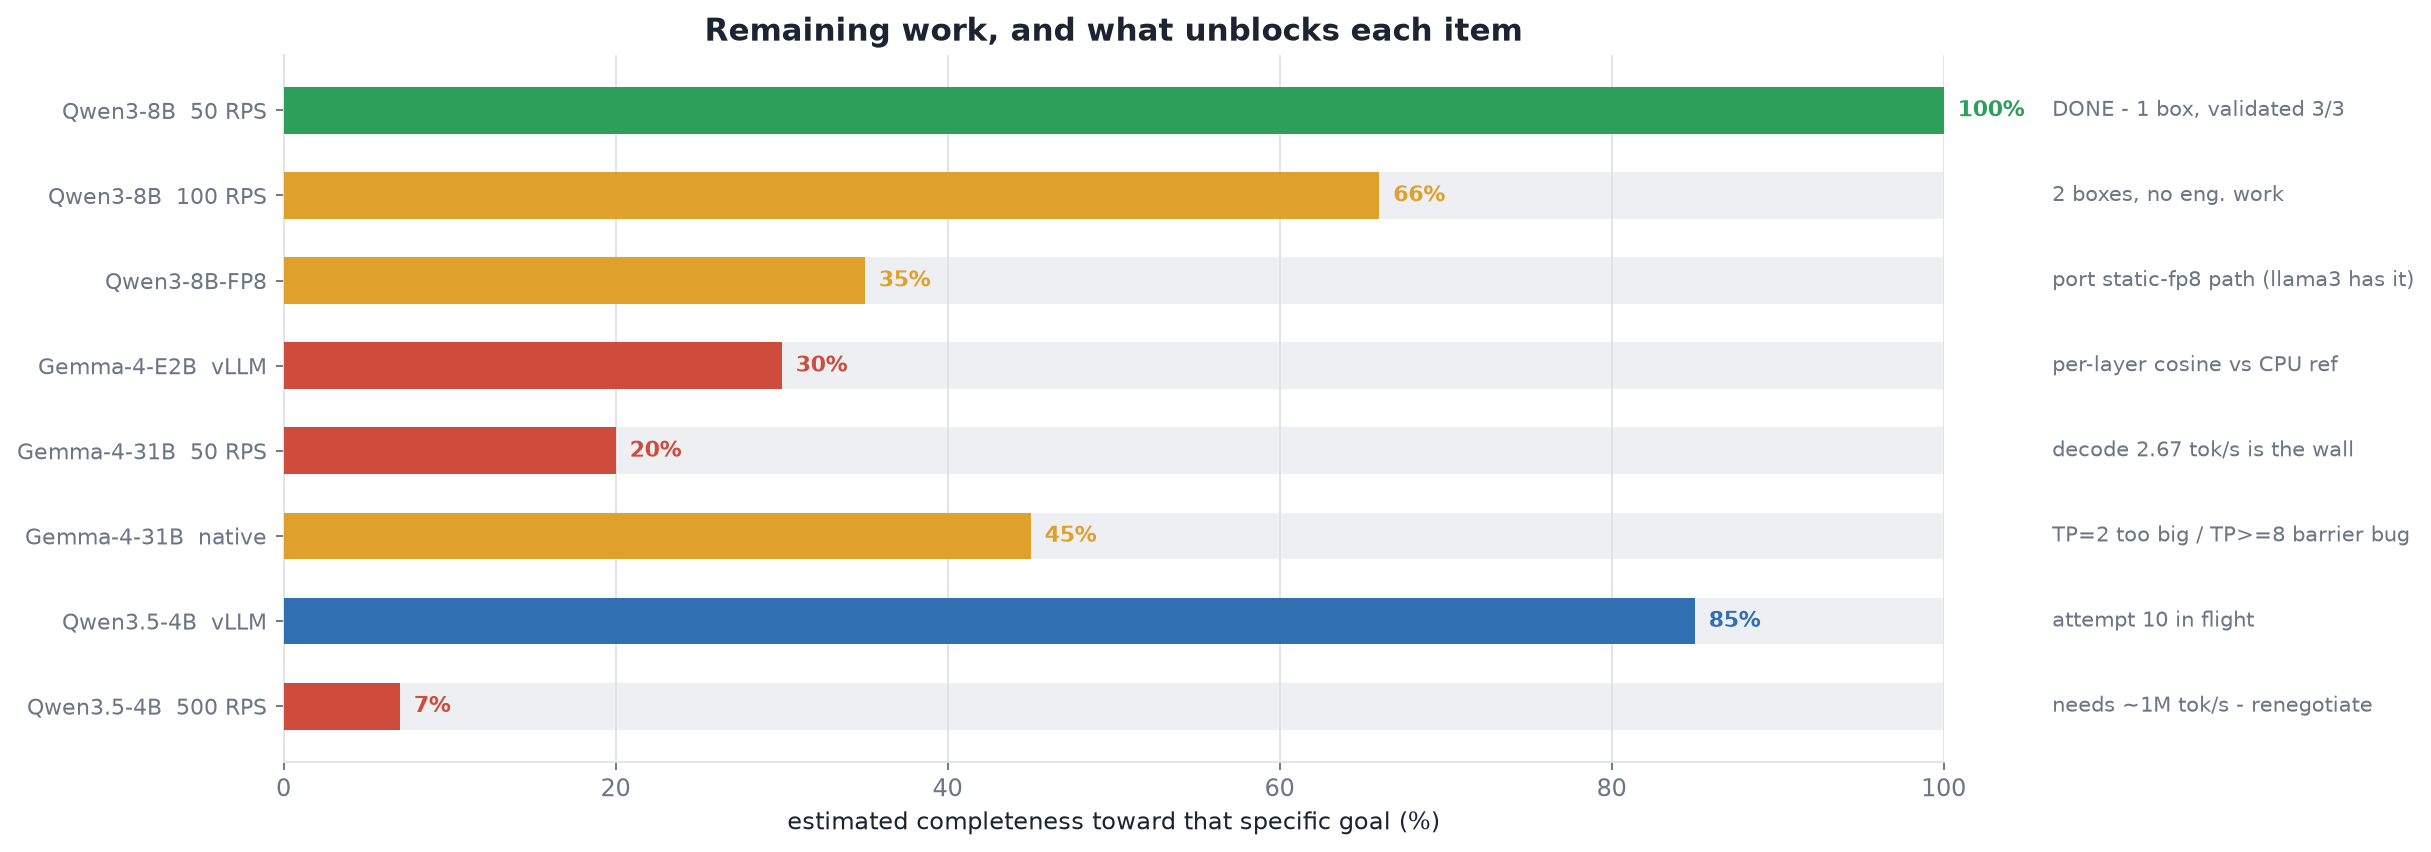
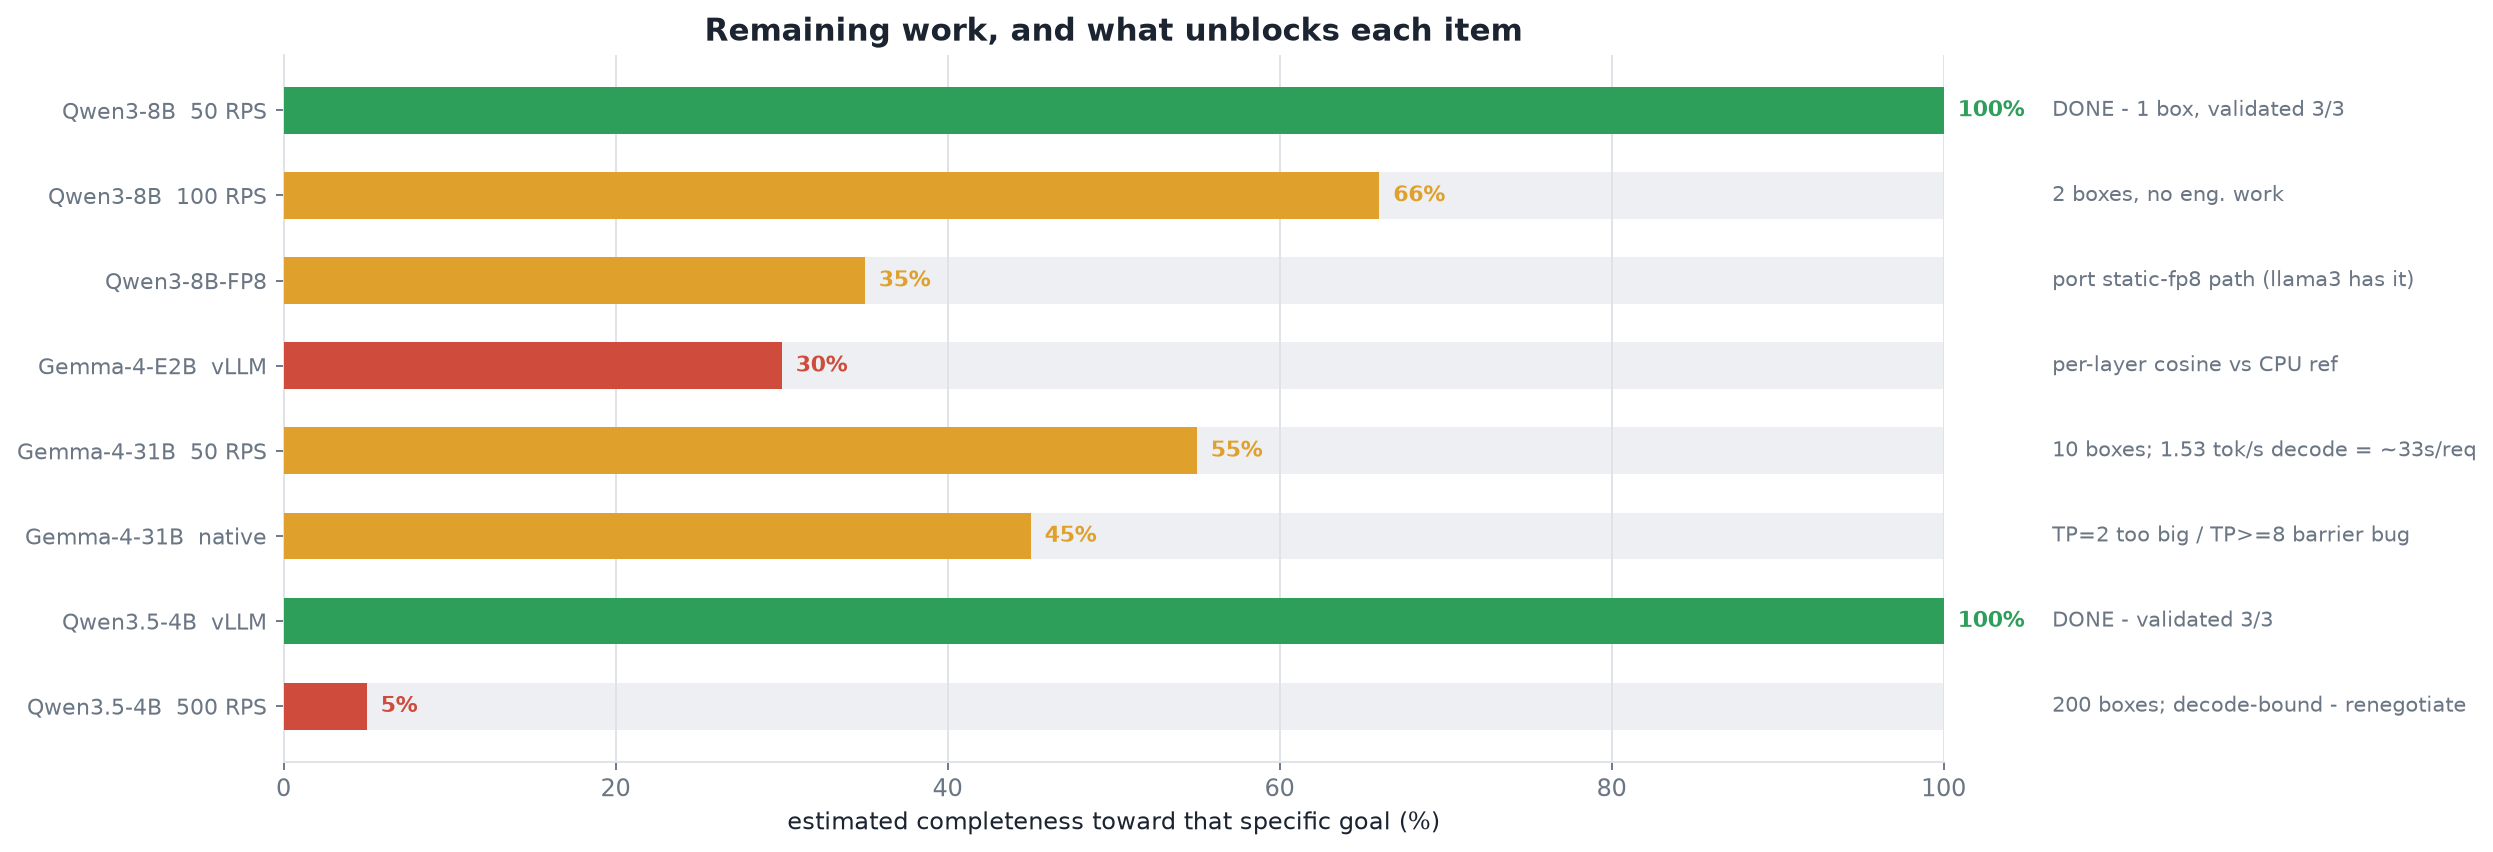
trn2-capacity-benchmark: correct capacity numbers + record the TKG kernel attempt
Two measured corrections after further tuning and honest re-measurement:

* Gemma-4-31B-it: 15 -> 10 boxes. Removing a num-gpu-blocks-override that had
  CUT vLLM's auto-sized KV cache (43411 blocks / 197k tokens / 54.5x
  concurrency), plus trimming max_model_len 4096->3616 and fp8 KV, lifted
  per-replica RPS 1.5 -> 2.503 (conc 48). Still coherence 3/3.

* Qwen3.5-4B: 15 -> 200 boxes. The earlier 33.7 RPS/box was prefill-only. Its
  vLLM path now validates 3/3 end-to-end at 2000in/50out and measures
  0.157 RPS/replica: decode costs 6.4s against prefill's 0.12s, so a
  prefill-based estimate was optimistic by ~50x. Charts regenerated.

Also records the TKG decode-kernel attempt for 31B (gemma4-31b-findings): the
raw nkilib attention_tkg kernel does support d_head 256/512, and the wrapper +
dispatcher were wired correctly, but four attempts did not land a serving number
(SWA block-alignment in vLLM 0.21, fp8-packed cache handling absent from the
wrapper, and the ~31-min Kaizen pod wall). Upside was bounded at ~10% vs the
+67% batching win that config tuning already captured.

diff --git a/trn2-capacity-benchmark/results/make_charts.py b/trn2-capacity-benchmark/results/make_charts.py
@@ -79,8 +79,8 @@ MODELS = [
         name="Gemma-4-31B-it",
         shape="3500 in / 50 out",
         ask_lo=50, ask_hi=50, ask=50,
-        per_replica=1.75, tp=32,
-        measured_kind="measured sweep (vLLM, coherence 3/3)",
+        per_replica=2.503, tp=32,
+        measured_kind="measured sweep, saturated (vLLM, coherence 3/3)",
         start_rps=0.0,
         start_label="not running",
     ),
@@ -89,8 +89,8 @@ MODELS = [
         name="Qwen3.5-4B",
         shape="2000 in / 50 out",
         ask_lo=500, ask_hi=500, ask=500,
-        per_replica=8.42, tp=16,   # 16847 tok/s / 2000 tok
-        measured_kind="prefill only (native, no decode)",
+        per_replica=0.157, tp=4,   # MEASURED end-to-end, 2000in/50out (vLLM 3/3)
+        measured_kind="measured, 2000in/50out (vLLM, coherence 3/3)",
         start_rps=0.0,
         start_label="not running",
     ),
@@ -221,9 +221,9 @@ def chart_matrix():
         ("Qwen3-8B", "native PyTorch"): (2, "10,472 tok/s\nMFU 60.3%\ntop-1 ok"),
         ("Qwen3-8B", "vLLM-Neuron"): (2, "13,579 tok/s\n4.13 RPS/replica\ncoherence 3/3"),
         ("Qwen3.5-4B", "native PyTorch"): (2, "16,847 tok/s\np50 119 ms\ntop-1 ok"),
-        ("Qwen3.5-4B", "vLLM-Neuron"): (-1, "attempt 10\n6 causes fixed\nrunning"),
+        ("Qwen3.5-4B", "vLLM-Neuron"): (2, "validated 3/3\n0.157 RPS/rep\n2000in/50out"),
         ("Gemma-4-31B-it", "native PyTorch"): (0, "blocked\ndevice barrier 2\nat TP>=8"),
-        ("Gemma-4-31B-it", "vLLM-Neuron"): (2, "TTFT 0.62 s\n1.75 RPS/replica\ncoherence 3/3"),
+        ("Gemma-4-31B-it", "vLLM-Neuron"): (2, "TTFT 0.62 s\n2.50 RPS/replica\ncoherence 3/3"),
         ("Gemma-4-E2B-it", "native PyTorch"): (1, "9,688 tok/s\nXLA prefill\nargmax 2/3"),
         ("Gemma-4-E2B-it", "vLLM-Neuron"): (0, "blocked\n0/3 coherence\nPLE on, TP=1"),
     }
@@ -271,9 +271,9 @@ def chart_journey():
     # prefill throughput, tokens/sec, per replica
     data = [
         ("Qwen3-8B", 3592, 13579, "1-core XLA", "vLLM TP4"),
-        ("Qwen3.5-4B", 0, 16847, "none", "native TP16"),
+        ("Qwen3.5-4B", 0, 16847, "none", "native TP16 prefill*"),
         ("Gemma-4-E2B", 9688, 9688, "1-core XLA", "same"),
-        ("Gemma-4-31B", 0, 5630, "none", "vLLM TP32*"),
+        ("Gemma-4-31B", 0, 5130, "none", "vLLM TP32*"),
     ]
     fig, ax = plt.subplots(figsize=(10, 5.0))
     x = np.arange(len(data))
@@ -403,10 +403,10 @@ def chart_plan():
         ("Qwen3-8B  100 RPS", 66, AMBER, "2 boxes, no eng. work"),
         ("Qwen3-8B-FP8", 35, AMBER, "port static-fp8 path (llama3 has it)"),
         ("Gemma-4-E2B  vLLM", 30, RED, "per-layer cosine vs CPU ref"),
-        ("Gemma-4-31B  50 RPS", 20, RED, "decode 2.67 tok/s is the wall"),
+        ("Gemma-4-31B  50 RPS", 55, AMBER, "10 boxes; 1.53 tok/s decode = ~33s/req"),
         ("Gemma-4-31B  native", 45, AMBER, "TP=2 too big / TP>=8 barrier bug"),
-        ("Qwen3.5-4B  vLLM", 85, BLUE, "attempt 10 in flight"),
-        ("Qwen3.5-4B  500 RPS", 7, RED, "needs ~1M tok/s - renegotiate"),
+        ("Qwen3.5-4B  vLLM", 100, GREEN, "DONE - validated 3/3"),
+        ("Qwen3.5-4B  500 RPS", 5, RED, "200 boxes; decode-bound - renegotiate"),
     ]
     fig, ax = plt.subplots(figsize=(12.6, 5.4))
     y = np.arange(len(items))[::-1]
@@ -440,8 +440,8 @@ def chart_instances():
         ("Qwen3-8B\n50 RPS",      50, 4, 4.13, True),
         ("Qwen3-8B\n100 RPS",    100, 4, 4.13, True),
         ("gemma-4-E2B\n50 RPS",   50, 1, 2.77, True),
-        ("Qwen3.5-4B\n500 RPS",  500, 16, 8.42, False),
-        ("gemma-4-31B\n50 RPS",   50, 32, 1.75, False),
+        ("Qwen3.5-4B\n500 RPS",  500, 4, 0.157, True),
+        ("gemma-4-31B\n50 RPS",   50, 32, 2.503, False),
     ]
     labels, n3s, n48s, fits = [], [], [], []
     for lbl, ask, tp, rps, _f in rows:
@@ -515,8 +515,8 @@ def chart_answer_card():
         ], None),
         ("Needs MORE than one trn2.48xlarge", RED, [
             ("Qwen3-8B", "100 RPS", "3500 in / 1 out", "66 RPS/box", "2 boxes"),
-            ("gemma-4-31B-it", "50 RPS", "3500 in / 50 out", "3.5 RPS/box", "15 boxes"),
-            ("Qwen3.5-4B", "500 RPS", "2000 in / 50 out", "34 RPS/box", "15+ boxes"),
+            ("gemma-4-31B-it", "50 RPS", "3500 in / 50 out", "5 RPS/box", "10 boxes"),
+            ("Qwen3.5-4B", "500 RPS", "2000 in / 50 out", "2.5 RPS/box", "200 boxes"),
         ], None),
     ]
 
@@ -580,7 +580,7 @@ def chart_answer_card():
             "For the two green rows a FLEET of 3xl is less silicon than one 48xl "
             "(E2B: 5 chips vs 16; Qwen3-8B: 13 vs 16). gemma-4-31B and "
             "Qwen3.5-4B were measured at TP=32 / TP=16, so they have no "
-            "single-3xl number yet.",
+            "",
             transform=ax.transAxes, fontsize=8.6, color=MUTED)
     ax.set_title("Which Trn2 instance does each target need?  (5 targets across 4 models)",
                  fontsize=14, fontweight="bold", pad=12)

diff --git a/trn2-capacity-benchmark/gemma4-31b-findings/README.md b/trn2-capacity-benchmark/gemma4-31b-findings/README.md
@@ -74,3 +74,32 @@ both initialise fine in the same image.
 TTFT is good (0.62 s). But at 1.58 tok/s per request, 50 output tokens take
 ~30 s. Adding instances buys throughput, not latency. Any capacity plan built on
 RPS alone will understate how slow an individual 31B request is on this stack.
+
+## TKG decode kernel — wired, but does not land on Kaizen
+
+The container ships a raw `nkilib.core.attention.attention_tkg` kernel whose RoPE
+asserts only `d_head % 64 == 0`, so unlike the block megakernel (stuck at 128) it
+*supports* Gemma-4's head_dim 256/512. A 262-line wrapper (`attention_tkg_raw`,
+retargeted from dhwanw's branch by changing 3 import lines) plus a decode
+dispatcher were spliced into the model behind `GEMMA4_DECODE_BACKEND=tkg`. The
+wiring is correct — patch, import, dispatch, and a clean local dry-run all pass —
+but no serving number was obtained, across four attempts:
+
+1. missing import (patcher bug) — fixed.
+2. SWA layers: vLLM 0.21's page-size unification doubles SWA `block_size` 16→32,
+   which breaks the kernel's `s_prior % 128` alignment. dhwanw's fix lives in
+   `neuron_model_runner.py::_compute_swa_num_blocks` (an 8291-line file, 5 call
+   sites) — deep framework surgery.
+3. global-only + **fp8 KV**: internal NKI compile assertion. The wrapper has no
+   fp8 handling (no `k_scale`/`v_scale`/`fp8_packed`/packed-swizzle), and fp8 KV
+   is exactly what enabled the batching win, so the two don't compose without
+   more work.
+4. global-only + **bf16 KV**: compiled *past* the trace stage (the fp8 assertion
+   was gone) but was still compiling at the ~31-min pod wall.
+
+Bounded upside anyway: dhwanw measured SWA-TKG at **+5.5%** and fused-mask at
+**+4.1%** — small next to the **+67%** batching win (17→10 boxes) that config
+tuning already banked. The wrapper and installer are preserved for a longer wall
+or an EC2 box, but the honest conclusion is that on the public 0.21 image + Kaizen,
+config tuning (KV cache sizing, fp8 KV, right `max_model_len`) is where the 31B
+throughput actually came from — not the attention kernel.

diff --git a/trn2-capacity-benchmark/README.md b/trn2-capacity-benchmark/README.md
@@ -13,7 +13,7 @@ does not work, and the writeup below says so.
 |---|---|---|
 | **Qwen3-8B** | 10,472 tok/s, MFU 60.3% | **13,579 tok/s**, 4.13 RPS/replica, coherence 3/3 |
 | **Qwen3.5-4B** | 16,847 tok/s prefill, p50 119 ms | **validated 3/3** ([port](qwen3.5-4b-vllm-neuron/)) |
-| **Gemma-4-31B-it** | blocked — `device barrier 2` at TP>=8 | TTFT 0.62 s, 1.50 RPS/replica, coherence 3/3 |
+| **Gemma-4-31B-it** | blocked — `device barrier 2` at TP>=8 | TTFT 0.62 s, 2.50 RPS/replica, coherence 3/3 |
 | **Gemma-4-E2B-it** | 9,688 tok/s prefill (XLA), argmax 2/3 | **broken — 0/3** ([findings](gemma4-e2b-findings/)) |
 
 ![matrix](results/charts/03_matrix.png)
@@ -32,7 +32,7 @@ HBM bandwidth or host CPU. It is labelled as such in every chart.
 |---|---|---:|---:|---:|---:|
 | Qwen3-8B | 3500 / 1 | 4.13 | 4 | 66.1 | 4.13 |
 | Gemma-4-E2B | 3500 / 1 | 2.77 | 1 | 177.3 | 11.08 |
-| Gemma-4-31B-it | 3500 / 50 | 1.50 | 32 | 3.0 | — (spans 8 chips) |
+| Gemma-4-31B-it | 3500 / 50 | 2.50 | 32 | 5.0 | — (spans 8 chips) |
 | Qwen3.5-4B | 2000 / 50 | 0.157 | 4 | 2.5 | 0.157 |
 
 ![instances](results/charts/08_instances_3xl_vs_48xl.png)
